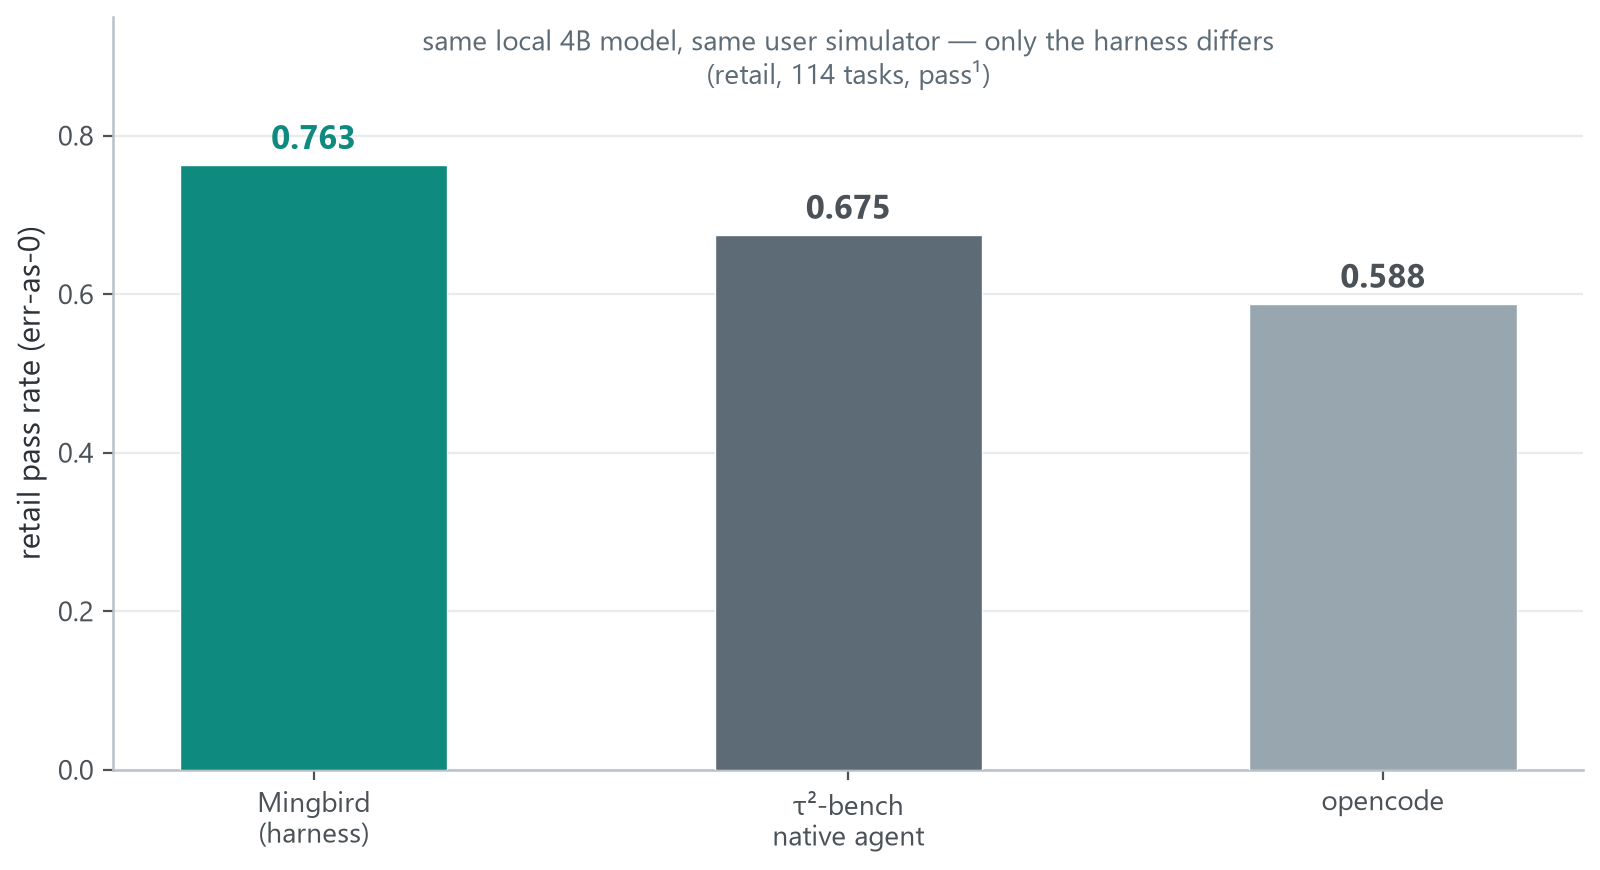
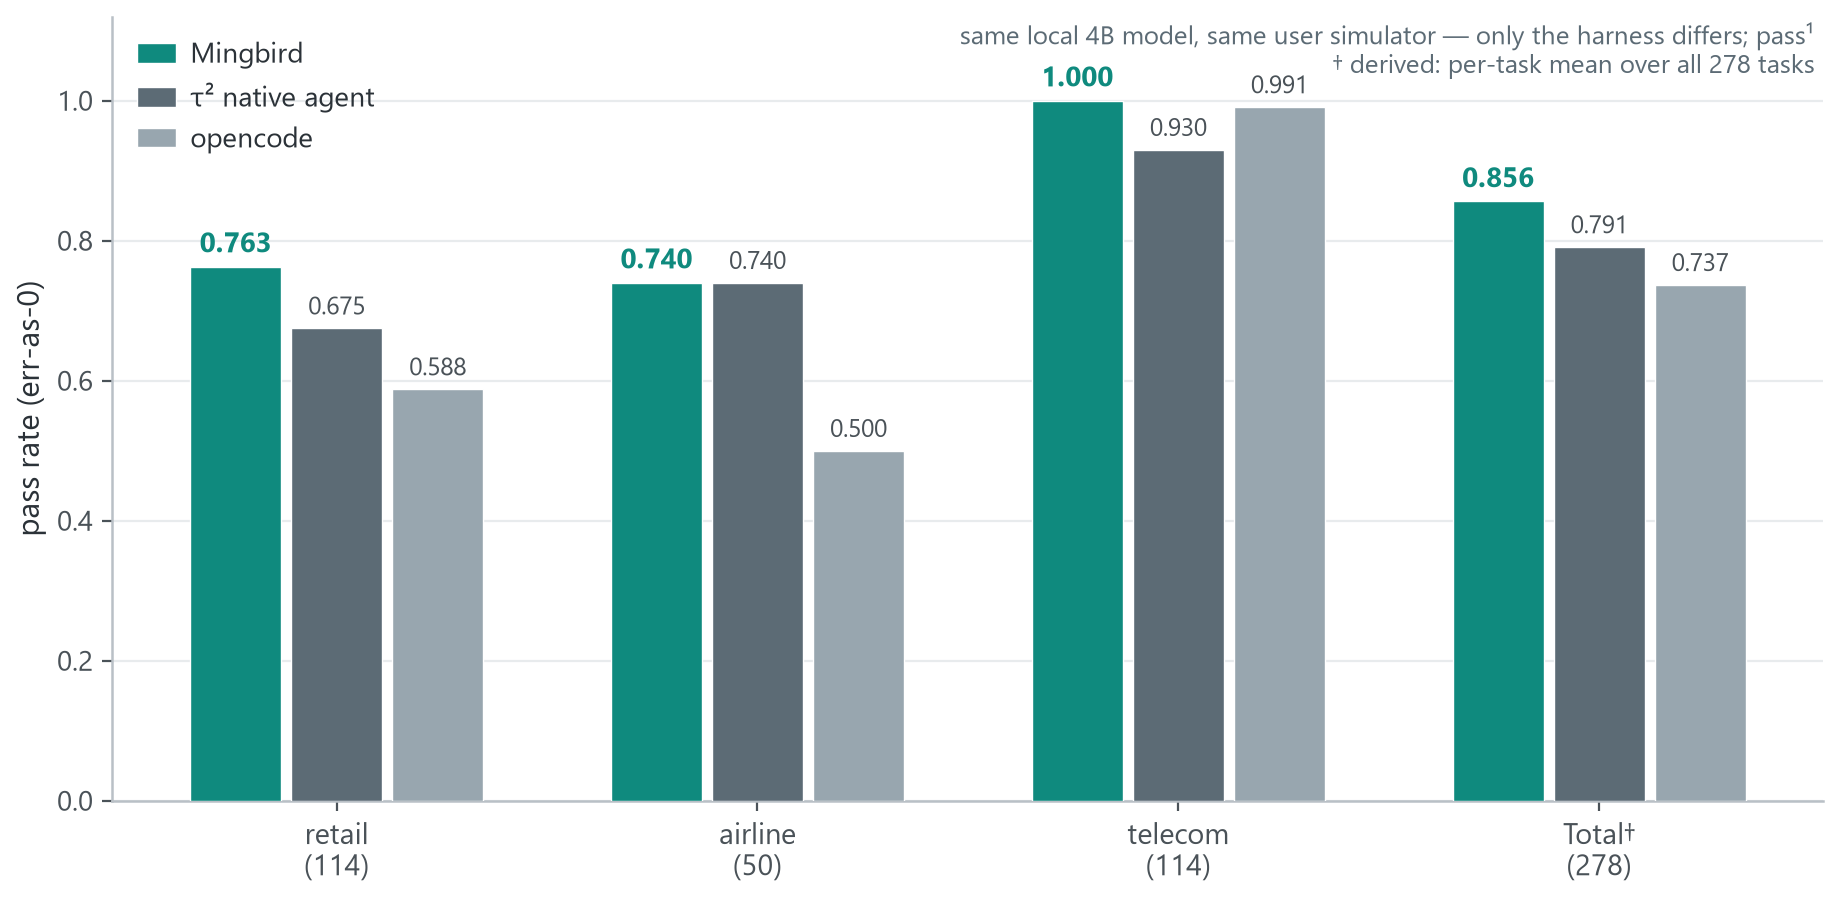
docs: anonymize hardware tiers (no vendor models); TAU2 tables add derived total column; new 3-domain+total headline chart; fix run-id NameError in run_bench.py

diff --git a/bench/lrab/runners/run_bench.py b/bench/lrab/runners/run_bench.py
@@ -317,7 +317,7 @@ def main():
     # kill-resume 协议: 任务 JSON 声明 kill_at_pct, 或 CLI 强制覆盖(冒烟用)
     kill_at_pct = a.kill_at_pct if a.kill_at_pct is not None else task.get("kill_at_pct")
     # 隔离: run-id 强制含时间戳; workdir 在 run 目录内(每 run 完全独立, 互不污染)
-    run_id = a.run_id or f"{a.agent}_{task['id'].replace('-', '')}_{model.split(':')[0].replace('-','')}_{time.strftime('%m%d_%H%M%S')}"
+    run_id = a.run_id or f"{a.agent}_{task['id'].replace('-', '')}_{a.model.split(':')[0].replace('-','')}_{time.strftime('%m%d_%H%M%S')}"
     out_dir = os.path.join(a.results, run_id)
     os.makedirs(out_dir, exist_ok=True)
     workdir = os.path.join(out_dir, "workdir")

diff --git a/README.md b/README.md
@@ -82,11 +82,13 @@ Sierra Research's [τ²-bench](https://github.com/sierra-research/tau2-bench), a
 
 ![tau2](docs/assets/tau2_headline.png)
 
-| Harness | retail (114) | airline (50) | telecom (114) |
-|---|---|---|---|
-| **Mingbird** | **0.763** | **0.740** | **1.000** |
-| τ² native agent | 0.675 | 0.740 | 0.930 |
-| opencode | 0.588 | 0.500 | 0.991 |
+| Harness | retail (114) | airline (50) | telecom (114) | total (278) † |
+|---|---|---|---|---|
+| **Mingbird** | **0.763** | **0.740** | **1.000** | **0.856** |
+| τ² native agent | 0.675 | 0.740 | 0.930 | 0.791 |
+| opencode | 0.588 | 0.500 | 0.991 | 0.737 |
+
+† derived: per-task mean over all 278 tasks, recomputable from the per-trial data.
 
 The completed arms finished with zero errored trials. The thinking configuration moves these numbers a lot (opencode's telecom is 0.298 thinking-on vs 0.991 thinking-off) — itself a harness-level effect. goose is deferred: under the same protocol it needs 40–113 min per task on this benchmark (token audit: ~4.85M input tokens per task, driven by nested sub-agent loops), so its unified-protocol re-run is deferred; the column will be added on arrival.
 
@@ -120,10 +122,10 @@ Measured on real machines, not estimated:
 
 | Tier | Hardware | Models | Experience |
 |---|---|---|---|
-| Entry | AMD 680M iGPU · 16 GB RAM | 2–4B | streaming, near raw-Ollama speed |
-| Base | Intel Arc B390 iGPU · 32 GB RAM | 2–35B | 35B long tasks run end-to-end |
+| Entry | any iGPU · 16 GB RAM | 2–4B | streaming, near raw-Ollama speed |
+| Base | iGPU or entry-level dGPU · 32 GB RAM | 2–35B | 35B long tasks run end-to-end |
 
-An integrated GPU or an entry-level discrete GPU is enough; higher-end cards work too. The only thing Mingbird adds to the model is its own static text: 797 tokens.
+If it runs Ollama, it runs Mingbird. The only thing Mingbird adds to the model is its own static text: 797 tokens.
 
 ## Getting started
 

diff --git a/benchmarks/README.md b/benchmarks/README.md
@@ -7,7 +7,7 @@ Everything here is reproducible on your machine; nothing requires trusting us.
 
 **Definition.** 4 harnesses × 4 open models × 18 tasks = **288 cells**.
 
-- **Harnesses**: Mingbird, goose, agent-mini, opencode — stock, no patches, each driving the same Ollama backend on the same machine (Intel Arc B390 iGPU, 32 GB shared memory, Windows 11).
+- **Harnesses**: Mingbird, goose, agent-mini, opencode — stock, no patches, each driving the same Ollama backend on the same machine (an integrated GPU, 32 GB shared memory, Windows 11).
 - **Models**: `gemma4:e2b` (2B) · `qwen3.5:4b` (4B) · `gemma4:12b` (12B) · `ornith-1.5:35b` (35B, multimodal).
 - **Tasks**: 18 real tasks — 15 workflow tasks (WF-01…WF-15: code+tests, data analysis, web research with real search, file organization, refactoring, …) and 3 long-horizon tasks (LH-01…LH-03, multi-hour multi-phase builds).
 - **Protocol**: per-cell budget — workflow 90 min, long-horizon 180 min; 1 retry, latest attempt wins; **timeouts score 0**; deterministic artifact-based scoring (files exist, tests actually pass, reports contain the required findings). Every cell runs in a fresh working directory; harness processes are isolated from the scoring.
